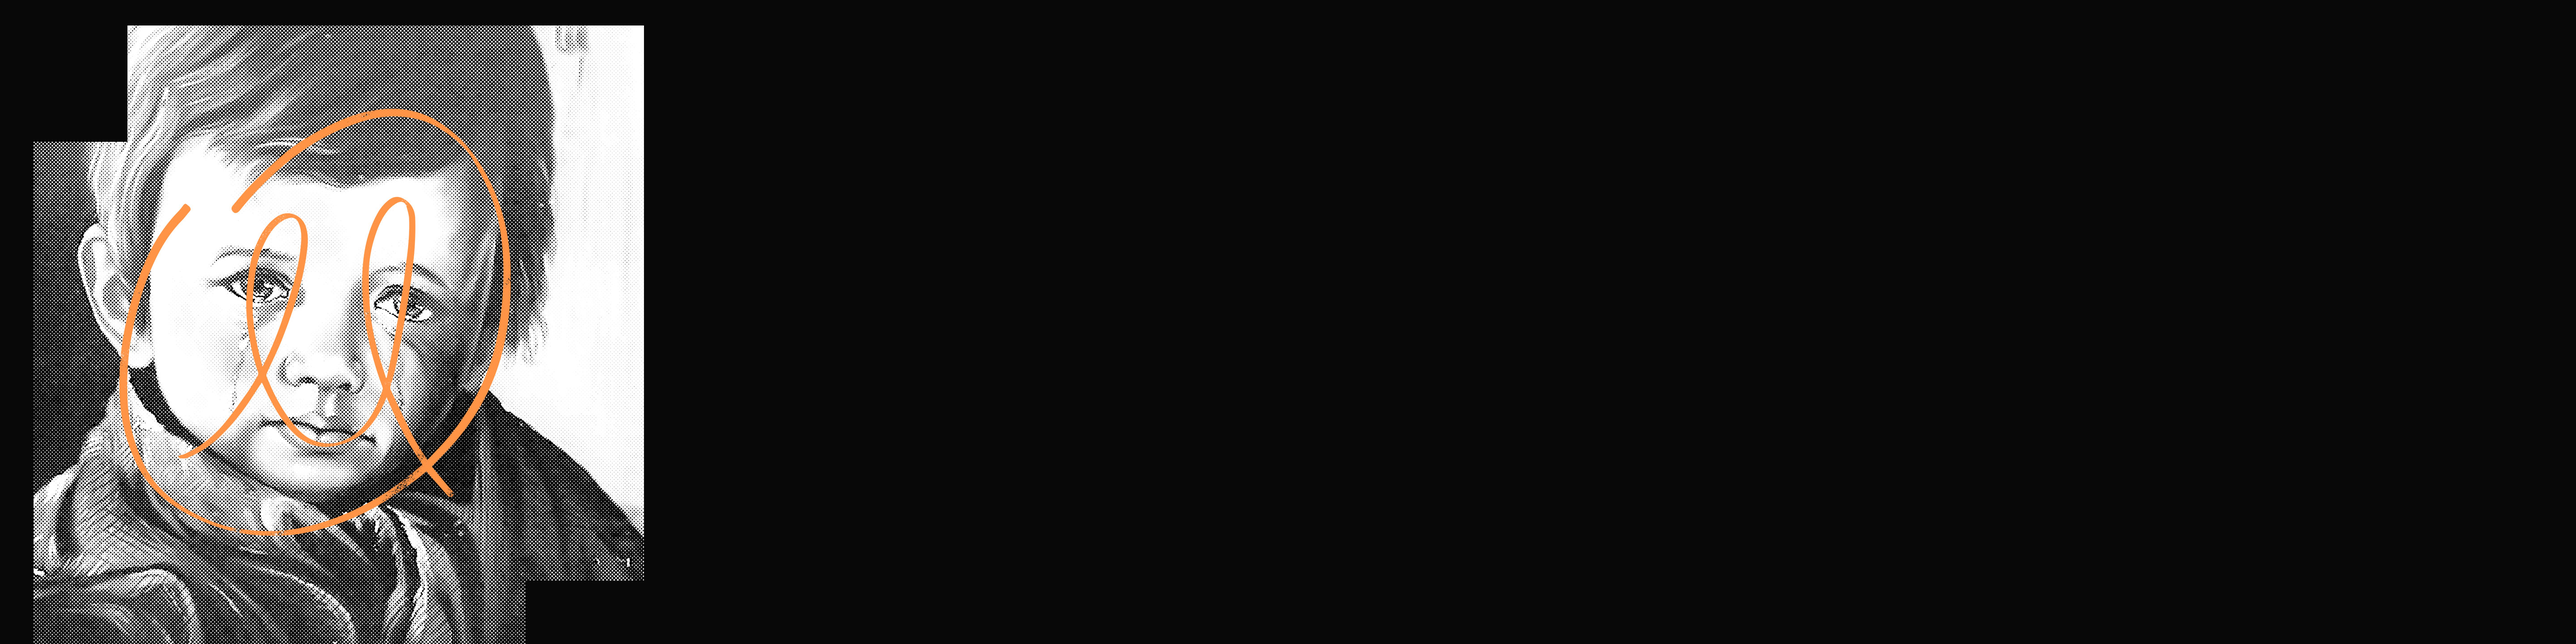
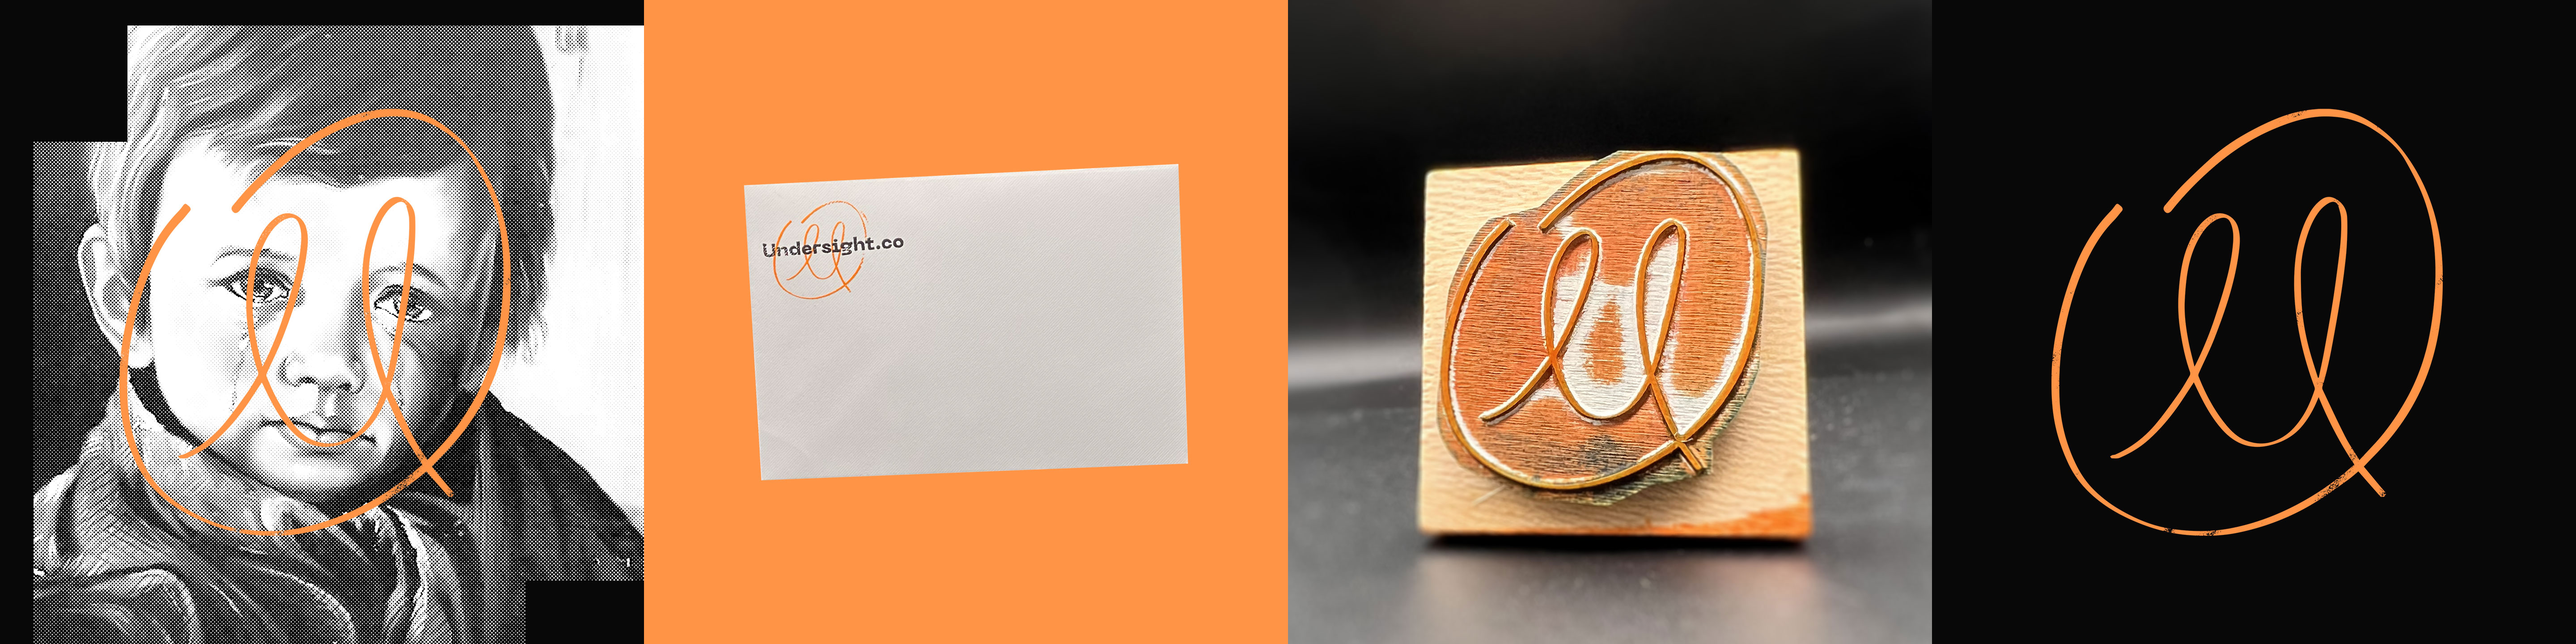
Add first Juni case study content

diff --git a/gatsby-node.js b/gatsby-node.js
@@ -19,15 +19,6 @@ exports.onCreateWebpackConfig = ({ stage, actions }) => {
 };
 
 exports.createPages = ({ actions, graphql }) => {
-  const { createRedirect } = actions
-
-  createRedirect({
-    fromPath: `/ok`,
-    isPermanent: true,
-    redirectInBrowser: true,
-    toPath: `/bore`,
-  })
-
   const { createPage } = actions;
 
   const projectTemplate = path.resolve(`src/templates/projectTemplate.js`);

diff --git a/src/pages/projects/undersight/index.md b/src/pages/projects/undersight/index.md
@@ -14,39 +14,55 @@ order: 1
 
 <article role="article">
 
-Picture this. It's the summer of 2016. I'm sitting in a poorly‑ventilated government building. I'm here to set up a tiny one‑person company for myself, hoping to level up my freelancing operation somewhat. The day has dragged on, I'm exhausted, and I have all but decided to pack up and leave when my number is called. I sit down, hand in all of the paperwork, and hear back: "so, have you thought about what you want to call the company"? Obviously, I have not. 
+Picture this. It's a hot summer day in Portugal and I'm sitting in a poorly‑ventilated government building. I'm here to set up a tiny one‑person company for myself, hoping to level up my freelancing operation somewhat. The day has dragged on, I'm exhausted, and I have all but decided to pack up and leave when my number is called. I sit down, hand in all of the paperwork, and hear back: “so, have you thought about what you want to call the company”? Obviously, I have not. 
 
-I now have a few seconds to come up with something I will have to live with for (hopefully) many years to come. Worse still, I apparently have to volunteer not one but three entirely different names, just in case a couple of them are already taken or get rejected for some reason. I tell the clerk I had thought of every single detail but had somehow forgotten about the name. She doesn't look too happy, and I apologize for the oversight. I'm briefly tempted to call the company *oversight*; at least I'd get a story out of it. Fortunately, I quickly realize the implications of calling any business (let alone a design one) that and decide against it.
+I now have a few seconds to come up with something I will have to live with for (hopefully) many years to come. Worse still, I apparently have to volunteer not one but three entirely different names, just in case a couple of them are already taken or get rejected for some reason. I tell the clerk I had thought of every single detail but had somehow forgotten about the name. She doesn't look too happy, and I apologize for the oversight. I'm briefly tempted to call the company *oversight*... at least I'd get a story out of it. I quickly realize the implications of calling any business (let alone a design one) that and decide against it.
 
 </article>
 
+![Definition of the word oversight, as seen in Cambridge Dictionary's online edition](images/oversight@2x.png)
+
 <article role="article">
 
-I dwell on it a bit longer and figure: if oversight is the unintentional failure to notice or do something that should have been obvious, I'm actually trying to be the exact opposite of that.
+I dwell on it a bit longer and figure: if oversight is the unintentional failure to notice something, I'm actually trying to be the exact opposite of that.
 
-> I want to bring people's attention to things that would otherwise go unnoticed. An antonym of oversight. Something like *undersight*, perhaps.
+> I want my work to direct people's attention to things that would otherwise go unnoticed.
  
-Is that a word? Probably not.
+I try to think of an antonym. Something like *undersight*, perhaps... Is that a word? Probably not.
 
 With little time to spare, I tell the clerk that's what I'm going with. She seems unimpressed and dryly asks me about the other two names. I'm fairly confident I'll get the first one, so I offer up a couple of very forgettable generic names I immediately forgot. I go back home slightly disappointed with myself, sit down at my desk, and google the word. It's not a word. I shrug and start working on a brand for my company-to-be.
 
 </article>
 
+![Logo Stamp](images/stamp@2x.jpg)
+
+![Moodboard with references](images/moodboard@2x.jpg)
+
+![Early sketches, drawn with finger on an iPad](images/sketches@2x.png)
+
 <article role="article">
 
-Despite its humble and discombobulated origins, I grew very fond of the name over time. The more I wrote it down, the more I liked it. Eventually finding out that someone else had already come up with the word undersight (to describe [Sousveillance](https://en.wikipedia.org/wiki/Sousveillance), an antonym to a different meaning of the word oversight) didn't ruin it for me. Neither did the fact that it's virtually impossible to have people spell it correctly over the phone (underside, undersite, undersign... I could go on).
+Despite the adverse conditions it was born in, I became very fond of the name over time. The more I wrote it down, the more I liked it. Eventually, I found out someone else had already come up with the word undersight (to describe [Sousveillance](https://en.wikipedia.org/wiki/Sousveillance), an antonym to a different meaning of the word oversight). That didn't ruin it for me. Neither did the fact that it's virtually impossible to have people spell it correctly over the phone (underside, undersite, undersign... I could go on).
 
-> I was also quite happy with how the made-up definition of this made-up word relates to my own experience discovering graphic design as a teenager.
+> In fact, I was quite happy with how the made-up definition of this made-up word relates to my own experience discovering graphic design as a teenager.
 
 It brought me back to the late 90's, reading [A Smile in the Mind](https://en.wikipedia.org/wiki/A_Smile_in_the_Mind) for the first time. Being awe-struck by witty ideas you wouldn't immediately get, but hit you like a freight train when you finally did. I wanted that to transpire, somehow, into my own brand.
 
+I eventually found something that I felt conveyed those exact feelings. It's so simple that I'm slightly ashamed it took me so long to get there: it's a hand-drawn lowercase u that doubles as a smiley face. Fun but slightly unsettling—like Nirvana's smiley face logo. Simple but with depth and personality—like the Harvey Ross Ball original.
+
 </article>
+
+![Logo superimposed over a reproduction of The Crying Boy, an artwork by Italian painter Giovanni Bragolin](images/crying-boy@2x.png)
+
+![Envelope](images/envelopes@2x.jpg)
+
+![Stamps with logo and address](images/stamps@2x.jpg)
 
 <article role="article">
 
-I eventually found something that I felt conveyed those exact feelings. It's so ridiculously simple that I'm actually ashamed it took me so long to get there. It's a lowercase u that doubles as a smiley face. Fun but slightly disconcerting—like Nirvana's smiley face logo. Simple but with depth and personality—like the Harvey Ross Ball original.
+I've paired it with Pangram Pangram's [Neue Machina](https://pangrampangram.com/products/neue-machina) where needed—though, frankly, I'm pretty happy using as little type as possible for it. I printed no stationery. Everything is created on the fly, as needed, with paper stocks, envelopes, and a couple of rubber stamps.
 
-I've paired it with Pangram Pangram's [Neue Machina](https://pangrampangram.com/products/neue-machina) where needed—though, frankly, I'm pretty happy using as little type as possible for it. Easy when you're a one-person operation that essentially mails a couple of letters a month, I guess.
+I eventually stopped doing freelance, but I kept the name, the domain, and this website. I've lived with it for a few years now, and I'm still pretty happy.
 
 </article>
 

diff --git a/src/pages/projects/juni/index.md b/src/pages/projects/juni/index.md
@@ -14,6 +14,42 @@ order: 2
 
 <article role="article">
 
-Juni
+The happiest day of my life was a Thursday in 2019. Just an unremarkable blip in most people's lives, that day, but it's forever seared into my memory like no other. At 4 a.m. on that Thursday, I held my daughter for the first time. As I looked at her, sleeping peacefully in my arms, I tried to grasp just how much my life was about to change.
+
+A couple of months later, I realized I had been way off. For the first six months or so, everything was much, much harder than I had anticipated. Our daughter turned out to be extremely colicky, which resulted in very long, very intense crying sessions. She would spend most of her waking time screaming her little heart out, and she would only calm down if we held or rocked her to sleep pretty much 24/7. Because we were living far away from family and friends, that task fell exclusively on me and my wife. We would take turns holding her, and sleep whenever we could. Eating became secondary. Showers were an occasional luxury. So my wife and I did the logical thing: we decided to start a side project.
 
 </article>
+
+<article role="article">
+
+My wife had floated the idea of starting her own brand of clip-on earrings multiple times before. She loves earrings but never got her ears pierced due to an allergic reaction, so she can only use the kind that clips to your ear. Unfortunately, decent clip-on earrings are hard to come by. Almost no brands carry them and, when they do, they're either very basic or poorly built (or, most likely, both). So we thought: maybe we've got a “scratch your own itch” kind of thing going on here.
+
+Laying awake at night for hours on end trying to rock a baby to sleep is, of course, extremely tiring. But it also gives you plenty of time to think. And so, through all of the crying, the shushing, and the singing in our daughter's ear, we began making plans.
+
+It started with the name. That was an easy one: Juni, the Swedish word for June. It's the month I met my wife, and the month our daughter was born. Then came the logistical side of it: finding good, reliable partners who could help us manufacture high-quality clip-on earrings that looked good and were comfortable to wear. We had no time to simply pick up the phone and call manufacturers during the day—and we definitely couldn't go and see them in person. So we'd just send typo-riddled e-mails in the early hours of the morning, written on a phone with the hand that wasn't holding a baby. After a lot of hard work, and a fair amount of luck, we found partners we could trust. We did the whole dance of putting orders in, getting proofs in the mail, sending them back, making adjustments; all over e-mail and without leaving our apartment once.
+
+Over time we grew our inventory, and we put together a collection we were happy with. That we had no way to actually sell any of it seems, in hindsight, like an issue we should have anticipated. But you know what they say: sleep deprivation is a hell of a drug. Luckily, as time went on, what everyone kept telling us would happen finally did: it became easier. Our daughter cried less, slept better, and we suddenly had a little bit more time to work on the brand, the website, and the marketing strategy.
+
+</article>
+
+<article role="article">
+
+This being mainly the result of my wife's vision, I wanted to model the brand after her personal taste. I knew she would want it to have a floral theme, and for it to look elegant and mature.
+
+> I knew she'd want it to fit neatly into your average Instagram fashion hashtag, but with a slight indie slant.
+
+So I grabbed a huge collection of high-quality scans of flowers and leaves I had laying around and started trying to put them together. We sprinkled in a very restrained color scheme and a quasi-brutalist logo and there it was: the exact balance we were looking for.
+
+The floral motifs take center stage and remain more or less unchanged across all applications. To ensure the brand remains fresh and flexible, we made sure to shuffle elements around as much as possible. Similarly, we rely on different color schemes to denote special occasions (like the red and pink for valentine's day) or seasonal drops (like the blue and orange for our Summer collection).
+
+</article>
+
+<article role="article">
+
+> An aspect we put a lot of thought into was the packaging. We devised a solution that is practical and safe, with a minimal carbon footprint.
+ 
+It consists of a piece of recycled paper, that protects the earrings during shipment but can act as a display stand for them as well. It has a pair of die-cut holes to hold a spare set of ear lobe savers—two little pieces of white rubber that slide into a slot in the earring's clips, to reduce pressure on the ear when in use. Once folded, the card slides into a compostable bag made out of fermented corn starch. A logo printed on the bag lines up with the pattern on the card, giving the brand an extra bit of depth. These bags are then shipped inside envelopes padded with a recycled paper filling—an alternative to the more common bubblewrap ones—which means we use no plastic in the entire process.
+
+</article>
+
+
